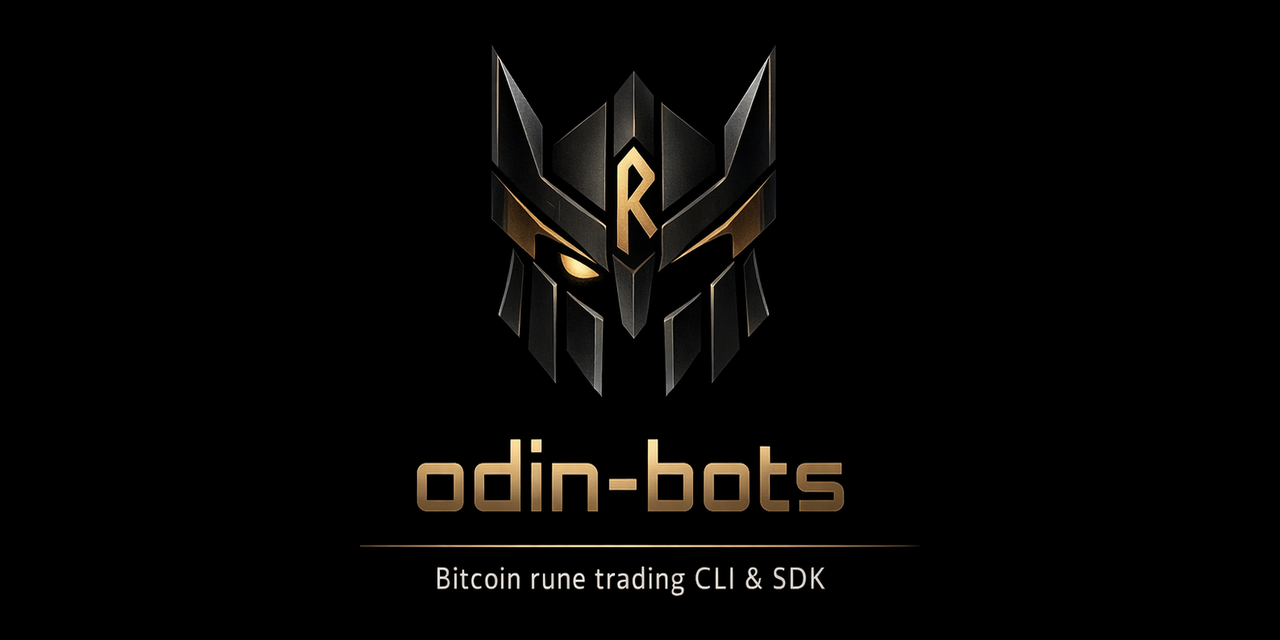
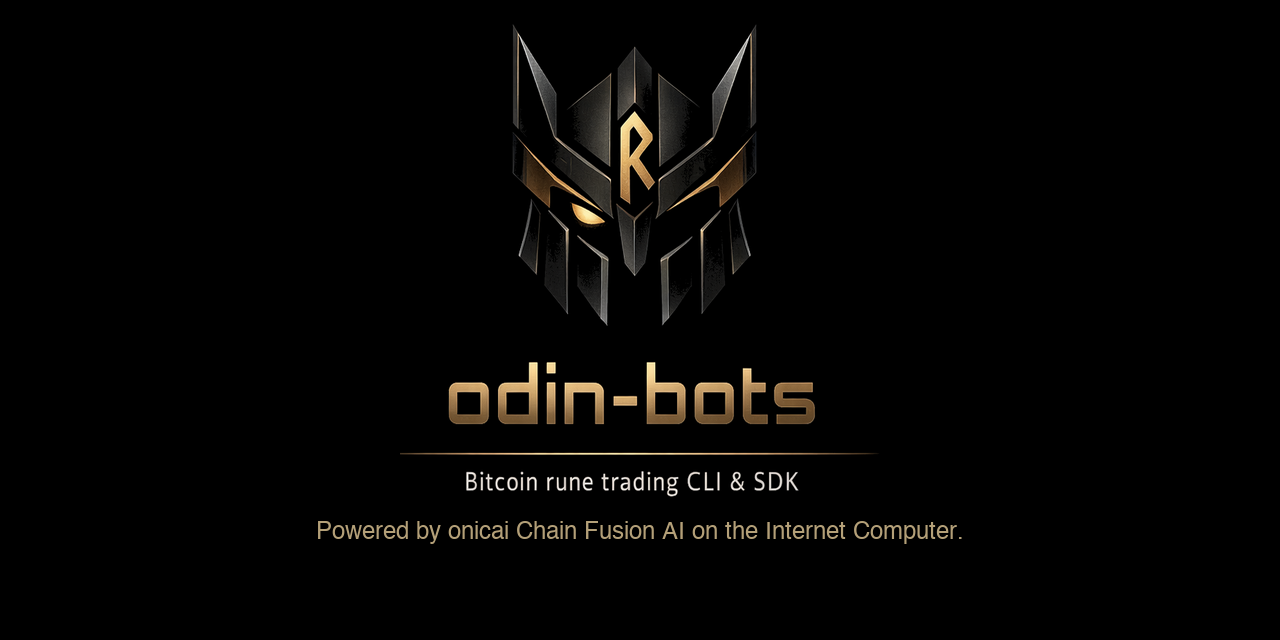
Powered by onicai Chain Fusion AI on the Internet Computer.

Changed region(s): [[0.25, 0.0625, 0.75, 0.9375]]

diff --git a/README.md b/README.md
@@ -4,7 +4,7 @@
   <img src="brand/logo/transparent_with_tagline_SMALL.png" alt="ODIN-BOTS" width="400">
 </p>
 
-## Powered by onicai Chain Fusion AI on the Internet Computer.
+<p align="center"><em>Powered by onicai Chain Fusion AI on the Internet Computer.</em></p>
 
 ---
 
